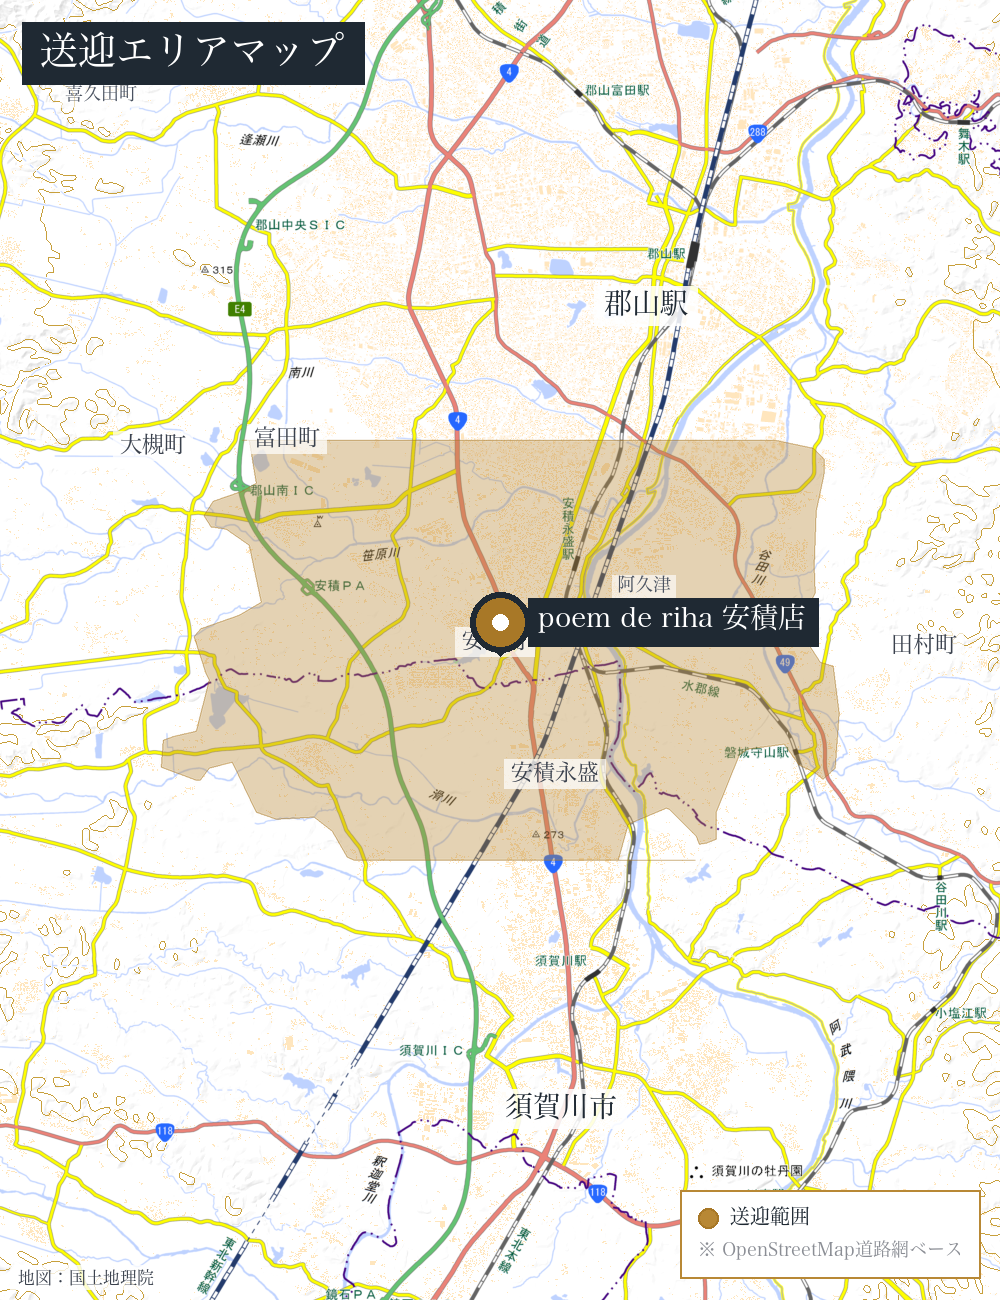
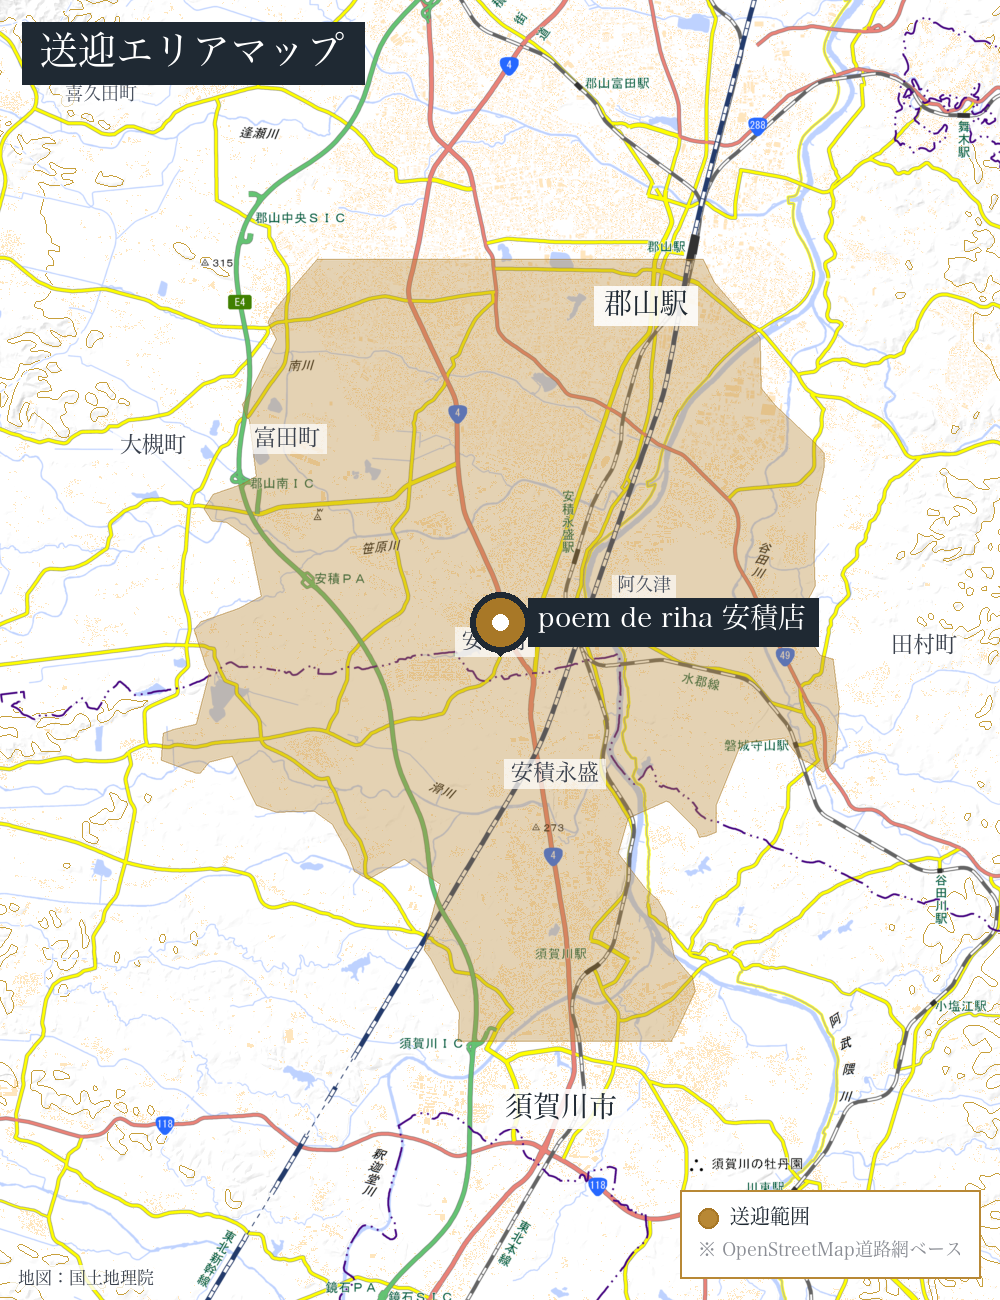
sougei-map: 安積店の北南クリップを 3分→5分 に拡張
縦長すぎず、4号線で延びすぎず、ちょうど良い範囲に調整。
クリップ緯度: 37.2904〜37.3971。

diff --git a/sougei-area-asaka.html b/sougei-area-asaka.html
@@ -43,13 +43,13 @@
 <body>
 <div class="topbar">
   <h1>🚐 poem de riha 安積店｜送迎範囲</h1>
-  <div class="meta">片道7分（東西）／ 3分（南北・4号線渋滞考慮）<br>
+  <div class="meta">片道7分（東西）／ 5分（南北）<br>
     <a href="poem-asaka.html">← 案内ページに戻る</a>
   </div>
 </div>
 <div class="legend">
   <span class="swatch"></span>送迎範囲<br>
-  <small style="font-size:10px;color:#6b7280">東西7分／南北3分</small>
+  <small style="font-size:10px;color:#6b7280">東西7分／南北5分</small>
 </div>
 <div id="map"></div>
 

diff --git a/tools/generate-isochrone-map.py b/tools/generate-isochrone-map.py
@@ -32,7 +32,7 @@ FACILITIES = [
         'slug': 'asaka',
         'lat': 37.349490, 'lng': 140.362112,
         'range_sec': 420,  # 片道7分（東西方向）
-        'ns_clip_range_sec': 180,  # 北南は3分相当でクリップ（4号線渋滞考慮）
+        'ns_clip_range_sec': 300,  # 北南は5分相当でクリップ（4号線渋滞考慮）
         'zoom': 13,
         'tile_url': 'https://cyberjapandata.gsi.go.jp/xyz/std/{z}/{x}/{y}.png',  # 国土地理院 標準地図
         'tile_attribution': '地図：国土地理院',
